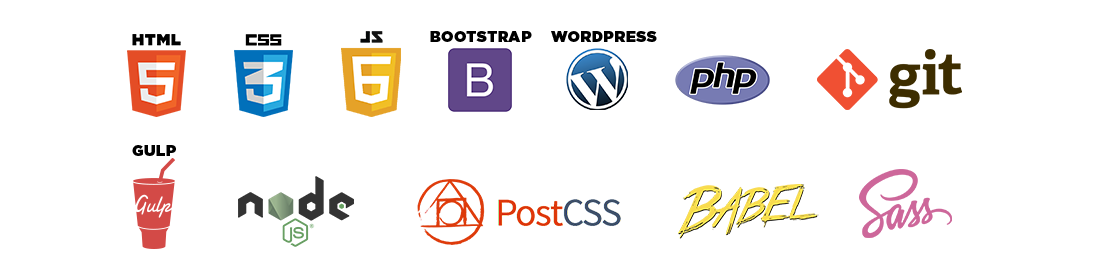
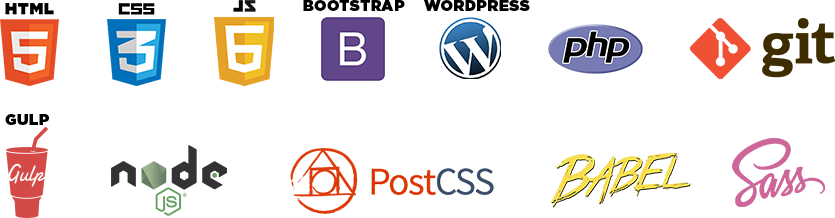
Updated Mobile Layout

diff --git a/app/index.html b/app/index.html
@@ -80,7 +80,7 @@
           <div class="generic-content-container" id="skills">
           <h2 class="headline headline--centered headline--no-t-margin headline--orange headline--small">Here&rsquo;s a look at my skills&hellip;</h2>
             <picture>
-            <img class="lazyload" src="assets/images/skills.png" alt="My Skillset">
+            <img class="lazyload" src="assets/images/skills.png" alt="My Skillset" id="skillsImg">
           </picture>
           </div>
       </div>
@@ -98,12 +98,12 @@
             <a href="http://www.jnnservices.com" target="_blank"><img src="assets/images/jnnServices.jpg"></a>
           </div>
           <div class="feature-item">
-            <a href="https://bitcross.github.io/travel-site/" target="_blank"><img src="assets/images/clearViewEscapes.jpg"></a>
+            <a href="http://www.jnnservices.com"><img src="assets/images/jnnservices.jpg"></a>
           </div>
         </div>
         <div class="row__medium-6">
           <div class="feature-item">
-            <a href="http://www.jnnservices.com"><img src="assets/images/jnnservices.jpg"></a>
+            <a href="https://bitcross.github.io/travel-site/" target="_blank"><img src="assets/images/clearViewEscapes.jpg"></a>
           </div>
           <div class="feature-item">
             <a href="http://www.jnnservices.com"><img src="assets/images/jnnservices.jpg"></a>

diff --git a/app/temp/styles/styles.css b/app/temp/styles/styles.css
@@ -772,8 +772,8 @@ a {
   .row__medium-6 {
     float: left;
     width: 50%;
-    margin-right: -15%;
-    margin-left: -4%;
+    margin-right: -10%;
+    margin-left: -9%;
   }
 
   .row__medium-8 {
@@ -871,12 +871,35 @@ a {
 	width: 50%;
 	margin-top: 2%;
 	margin-left: 50%;
-	
+	-webkit-transform: translateX(-50%);
+	        transform: translateX(-50%);
+}
+
+@media (min-width: 800px) {
+
+  .about-me-photo {
+    -webkit-transform: translateX(0);
+            transform: translateX(0)
+  }
 }
 
 #skills {
-	margin-top: 1rem;
-	margin-left: 8rem;
+	height: 100%;
+	width: 100%;
+}
+
+@media (min-width: 800px) {
+
+  #skills {
+    margin-top: 1rem
+  }
+}
+
+#skills #skillsImg {
+  margin-left: 50%;
+  -webkit-transform: translateX(-50%);
+          transform: translateX(-50%);
+  padding: 0px;
 }
 
 .section-title {
@@ -928,6 +951,7 @@ a {
 	position: relative;
 	padding-bottom: 2.5rem;
 	width: 80%;
+	margin-left: 10%;
 
 }
 
@@ -1249,6 +1273,7 @@ Instead edit gulp/templates/sprite */
   position: relative;
   padding-top: 90px;
   text-align: center;
+  background-color: rgba(255,255,255,0.3);
 }
 
 @media (min-width: 800px) {

diff --git a/app/assets/styles/modules/_generic-content-container.css b/app/assets/styles/modules/_generic-content-container.css
@@ -3,6 +3,7 @@
 	p {
 		line-height: 1.65;
 		margin: 0 0 1.8rem 0;
+
 		font-weight: 300;
 
 		@mixin atSmall {
@@ -20,10 +21,24 @@
 	width: 50%;
 	margin-top: 2%;
 	margin-left: 50%;
+	transform: translateX(-50%);
 	
+	@mixin atMedium {
+		transform: translateX(0);
+	}
 }
 
 #skills {
-	margin-top: 1rem;
-	margin-left: 8rem;
+	height: 100%;
+	width: 100%;
+
+	@mixin atMedium {
+		margin-top: 1rem;
+	}
+
+	#skillsImg {
+		margin-left: 50%;
+		transform: translateX(-50%);
+		padding: 0px;
+	}
 }

diff --git a/app/assets/styles/modules/_row.css b/app/assets/styles/modules/_row.css
@@ -53,8 +53,8 @@
 		&__medium-6 {
 			float: left;
 			width: 50%;
-			margin-right: -15%;
-			margin-left: -4%;
+			margin-right: -10%;
+			margin-left: -9%;
 		}
 
 		&__medium-8 {

diff --git a/app/assets/styles/modules/_site-header.css b/app/assets/styles/modules/_site-header.css
@@ -127,6 +127,7 @@
 		position: relative;
 		padding-top: 90px;
 		text-align: center;
+		background-color: rgba(255,255,255,0.3);
 
 		@mixin atMedium {
 			z-index: 1;

diff --git a/app/assets/styles/modules/_feature-item.css b/app/assets/styles/modules/_feature-item.css
@@ -2,6 +2,7 @@
 	position: relative;
 	padding-bottom: 2.5rem;
 	width: 80%;
+	margin-left: 10%;
 	
 
 	@mixin atSmall {
